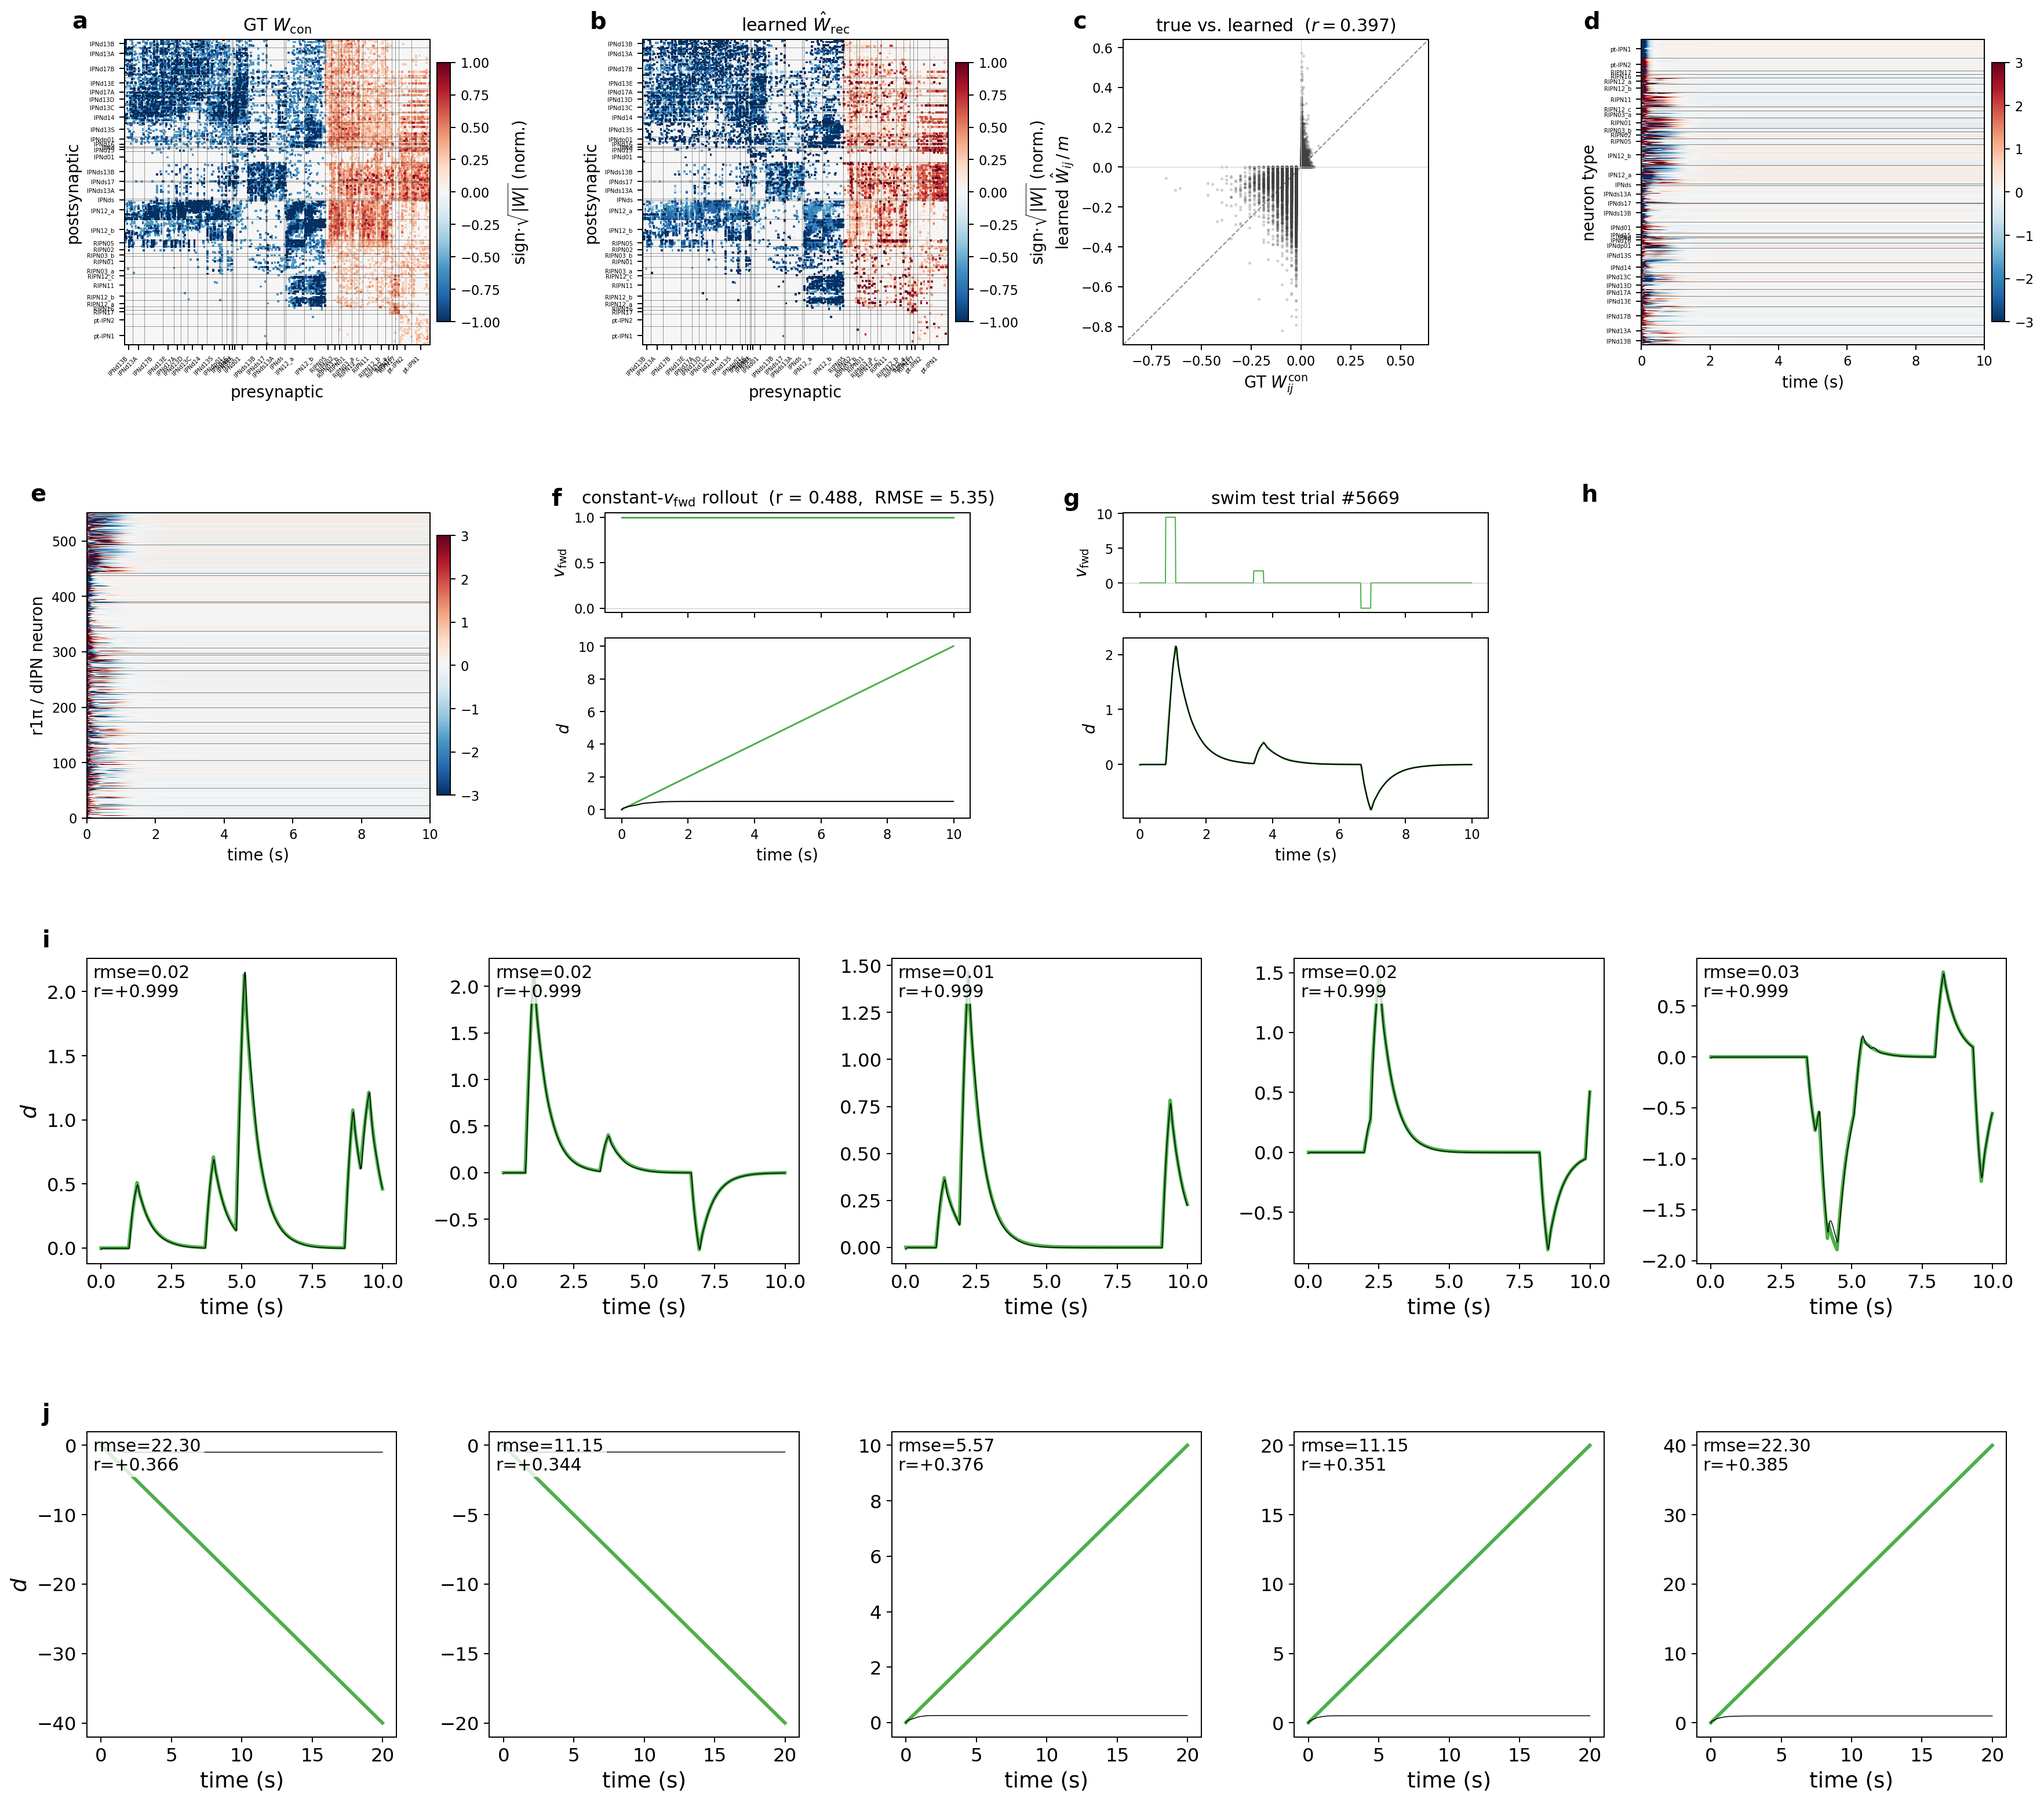
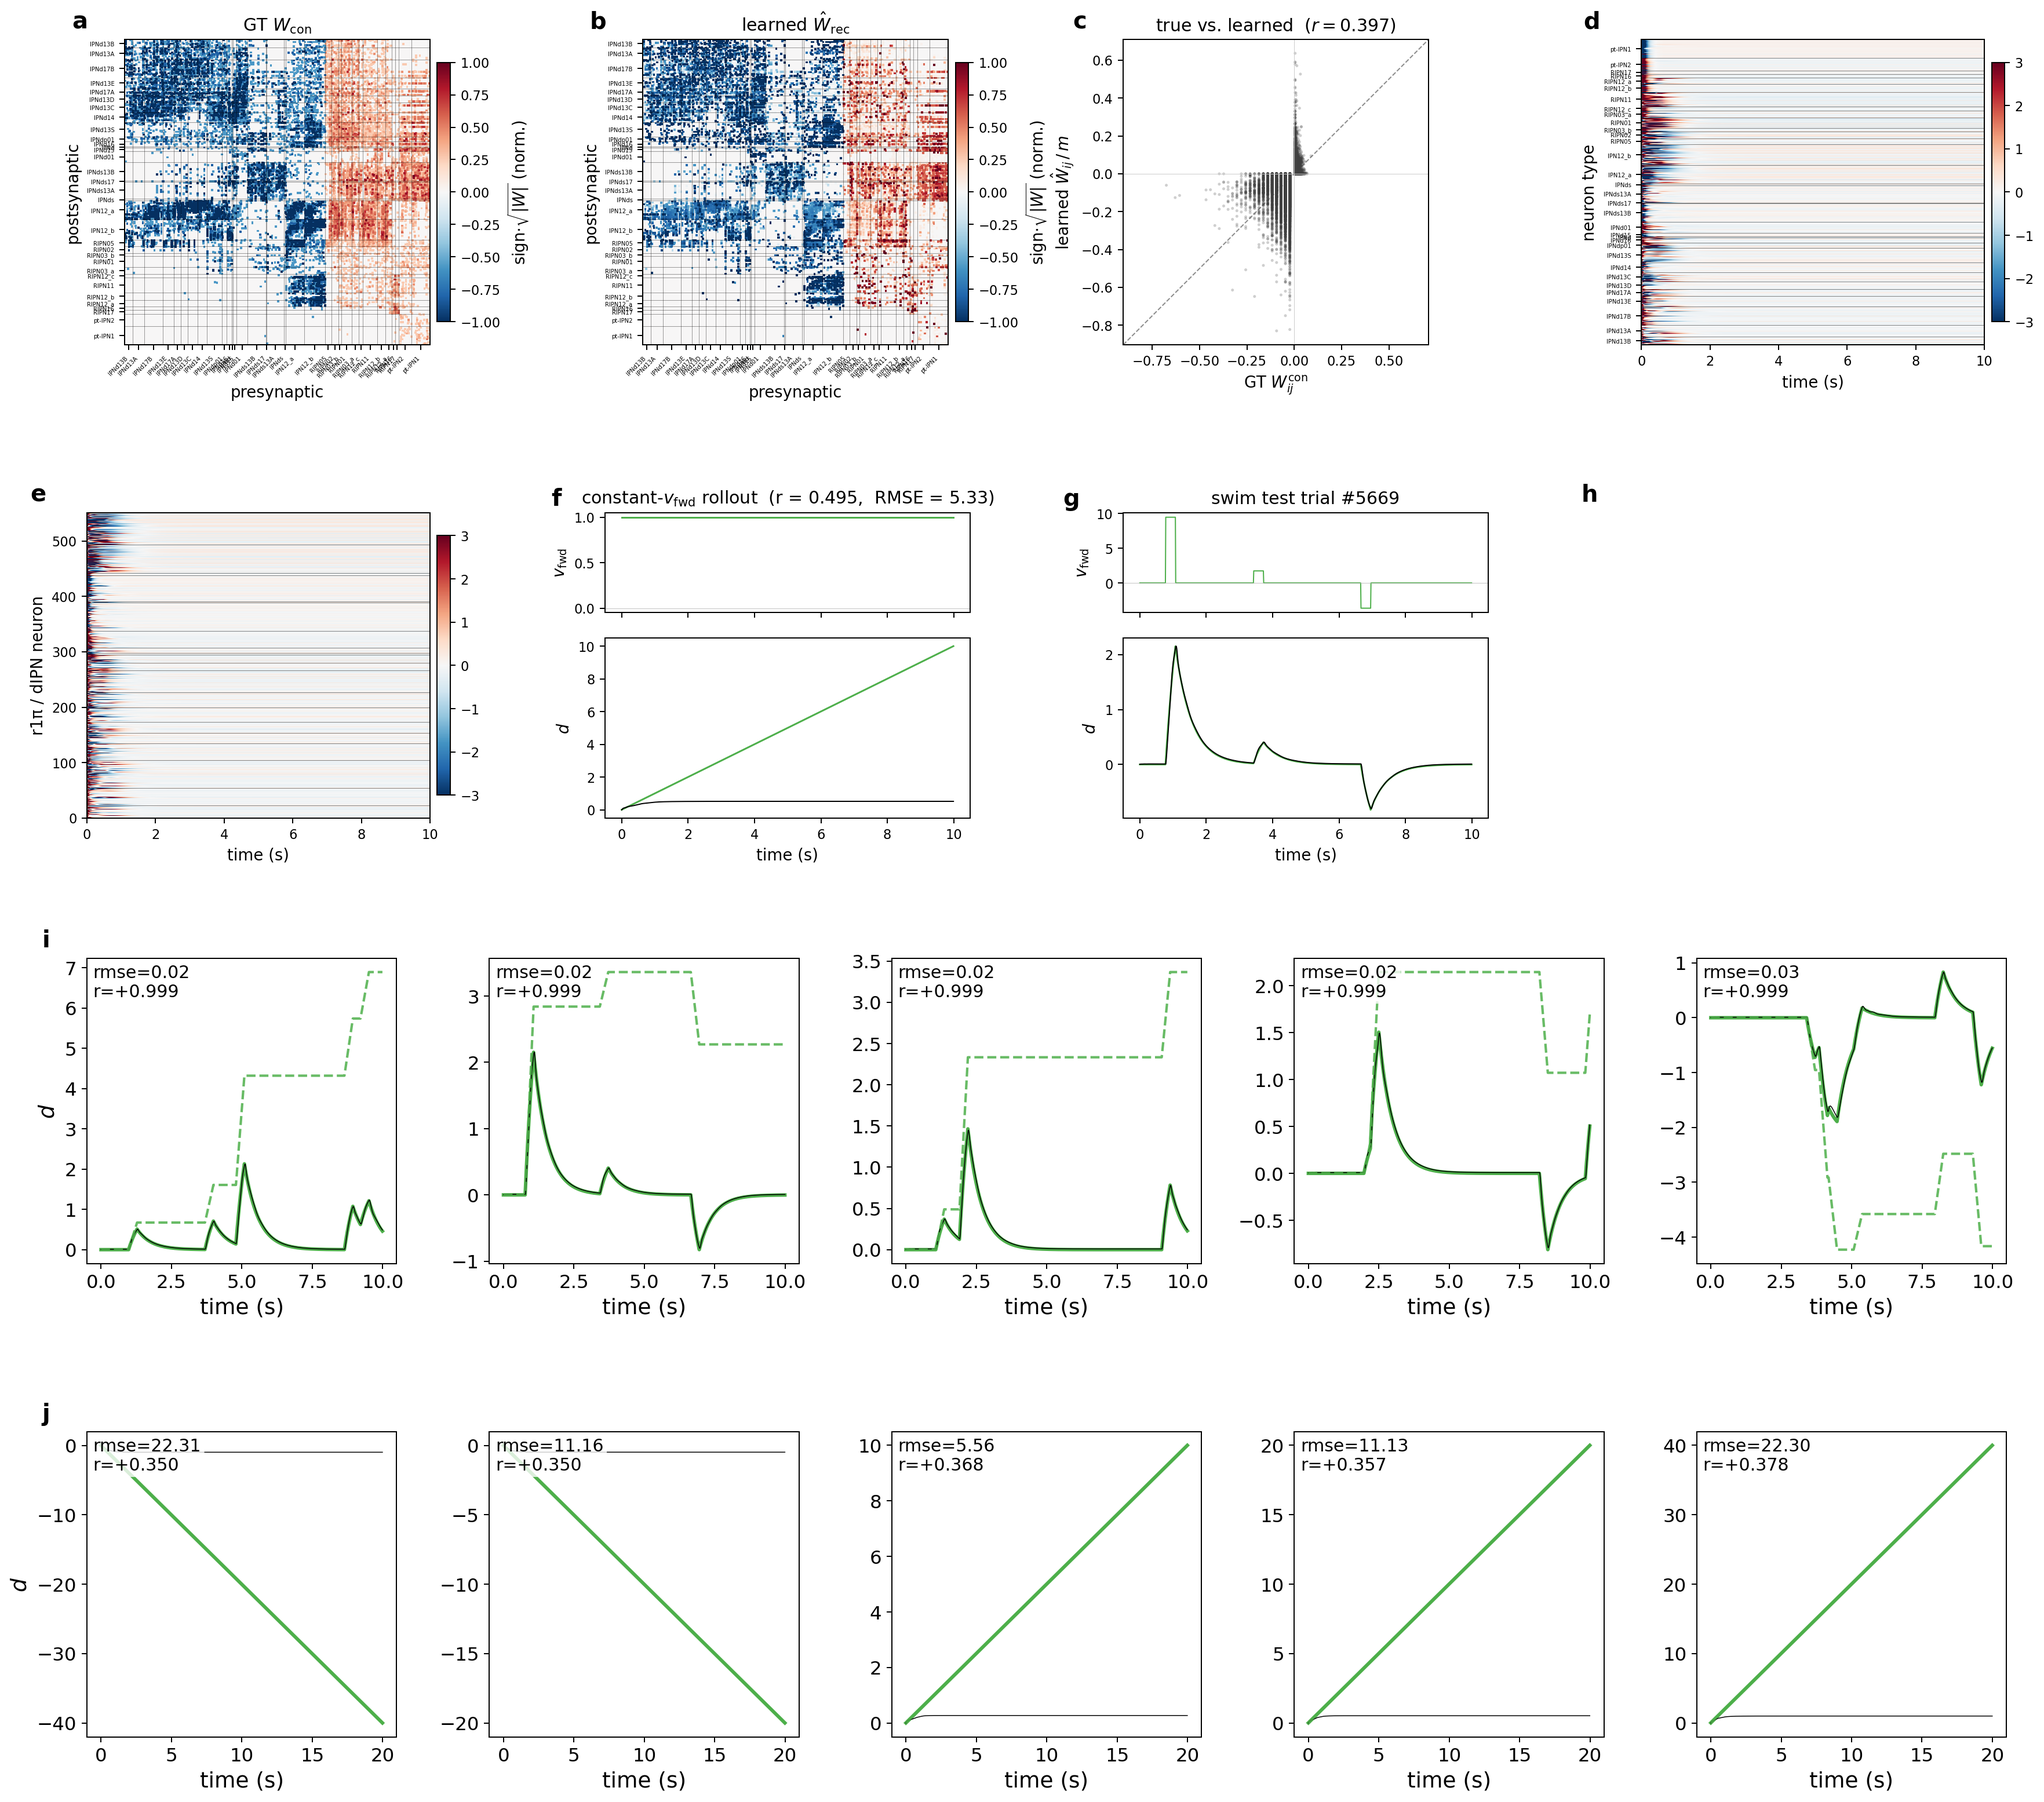
Leaky-variant evolution figures: overlay the cumulative-integrator GT (green dashed) for d and (x, y)
No data regeneration needed — the cumulative reference is a closed-form integral over the same v_fwd / omega input channels available in u:
  d_cum(t)   = Σ v_fwd · dt
  x_cum(t)   = Σ v_fwd cos θ(t) · dt
  y_cum(t)   = Σ v_fwd sin θ(t) · dt   where θ(t) = θ_0 + Σ ω · dt

* plot_cx.py: when xi_tau_s > 0 (leaky d) or position_tau_s > 0 (leaky xy), _plot_d_random / _plot_d_sweep / _plot_xy_random / _plot_xy_sweep now draw the cumulative reference on top of the (leaky) GT and decoded traces in the same green colour but DASHED at 70% line-weight. On the cumulative-target figures the flag is off so the figures stay unchanged.

The new overlay makes the bounded behaviour of the leaky target visible: in panel l of figure 6 (translation leaky) the dashed cumulative ramps up linearly while the leaky GT plateaus at τ·v_fwd ≈ 0.5·v_fwd, with the decoded trace following the leaky GT.

diff --git a/src/connectome_gnn/plot_cx.py b/src/connectome_gnn/plot_cx.py
@@ -2439,6 +2439,49 @@ def plot_cx_evolution(data: dict, out_path: str, *,
                     bbox=dict(facecolor="white", edgecolor="none",
                               alpha=0.8, boxstyle="round,pad=0.18"))
 
+        # ---- Cumulative-reference overlay (leaky variants only) ----------
+        # On leaky-target variants the GT trace is the leaky integrator;
+        # overlay the cumulative integral (cumsum of v_fwd * dt) in
+        # green dashed so the reader sees how much the leaky target
+        # discards vs.\ a pure path integrator on the same input.
+        _config = data.get("config")
+        _si = getattr(getattr(_config, "task", None),
+                       "swim_integration", None)
+        _xi_tau  = float(getattr(_si, "xi_tau_s", None) or 0.0)
+        _pos_tau = float(getattr(_si, "position_tau_s", None) or 0.0)
+        _show_cum_d  = (_xi_tau  > 0.0) and (kind in ("d", "both"))
+        _show_cum_xy = (_pos_tau > 0.0) and (kind == "xy")
+
+        def _cum_d_from_u(u_one):
+            """v_fwd channel: col 0 for translation-only (n_in=1),
+            col 1 for joint tasks (n_in=4)."""
+            n_in = u_one.shape[-1]
+            v = (u_one[:, 0] if n_in == 1
+                 else u_one[:, 1] if n_in >= 4
+                 else u_one[:, 0])
+            return np.cumsum(v) * dt_test
+
+        def _cum_xy_from_u(u_one):
+            """For n_in=4 superset [ω, v_fwd, cosθ₀·δ, sinθ₀·δ].
+            θ(t) = θ₀ + Σ ω·dt; x = Σ v_fwd·cosθ·dt, y = Σ v_fwd·sinθ·dt."""
+            n_in = u_one.shape[-1]
+            if n_in < 4:
+                return None, None
+            omega = u_one[:, 0]
+            v = u_one[:, 1]
+            theta0 = float(np.arctan2(u_one[0, 3], u_one[0, 2]))
+            theta_t = theta0 + np.cumsum(np.deg2rad(omega)) * dt_test
+            x = np.cumsum(v * np.cos(theta_t)) * dt_test
+            y = np.cumsum(v * np.sin(theta_t)) * dt_test
+            return x, y
+
+        def _cum_d_from_sweep(ro):
+            u = np.asarray(ro["u"])
+            return _cum_d_from_u(u)
+
+        def _cum_xy_from_sweep(ro):
+            return _cum_xy_from_u(np.asarray(ro["u"]))
+
         def _plot_wrapped_hd(ax, t, angles, color, lw):
             """Plot wrapped HD with line breaks at ±π discontinuities,
             so the wrap-around does not draw a vertical bar across the
@@ -2482,6 +2525,7 @@ def plot_cx_evolution(data: dict, out_path: str, *,
         def _plot_d_random(row, letter):
             y_true_show = random_trials.get("y_true")
             y_pred_show = random_trials.get("y_pred")
+            u_show = random_trials.get("u")
             if y_true_show is None or y_pred_show is None:
                 return
             d_col = (0 if y_true_show.shape[-1] == 1
@@ -2495,6 +2539,13 @@ def plot_cx_evolution(data: dict, out_path: str, *,
                 pr = y_pred_show[col, :, d_col]
                 ax.plot(t_r, tr, color=GT_COLOR, lw=GT_LW)
                 ax.plot(t_r, pr, color=PRED_COLOR, lw=PRED_LW)
+                # Cumulative reference (leaky variants only) — drawn in
+                # the same GT green but dashed so it doesn't compete
+                # with the leaky GT solid line.
+                if _show_cum_d and u_show is not None:
+                    d_cum = _cum_d_from_u(u_show[col])
+                    ax.plot(t_r, d_cum, color=GT_COLOR, lw=GT_LW * 0.7,
+                            ls="--", alpha=0.85)
                 ax.tick_params(labelsize=_T_TICK_FS)
                 ax.set_xlabel("time (s)", fontsize=_T_LABEL_FS)
                 if col == 0:
@@ -2507,6 +2558,7 @@ def plot_cx_evolution(data: dict, out_path: str, *,
         def _plot_xy_random(row, letter):
             y_true_show = random_trials.get("y_true")
             y_pred_show = random_trials.get("y_pred")
+            u_show = random_trials.get("u")
             if y_true_show is None or y_pred_show is None:
                 return
             for col in range(min(n_show, y_true_show.shape[0])):
@@ -2515,6 +2567,11 @@ def plot_cx_evolution(data: dict, out_path: str, *,
                 dx = y_pred_show[col, :, 2]; dy = y_pred_show[col, :, 3]
                 ax.plot(tx, ty, color=GT_COLOR, lw=GT_LW)
                 ax.plot(dx, dy, color=PRED_COLOR, lw=PRED_LW)
+                if _show_cum_xy and u_show is not None:
+                    cx, cy = _cum_xy_from_u(u_show[col])
+                    if cx is not None:
+                        ax.plot(cx, cy, color=GT_COLOR, lw=GT_LW * 0.7,
+                                ls="--", alpha=0.85)
                 ax.plot([0], [0], 'o', color='0.4', ms=4, zorder=5)
                 ax.set_aspect('equal', adjustable='datalim')
                 ax.tick_params(labelsize=_T_TICK_FS)
@@ -2563,6 +2620,10 @@ def plot_cx_evolution(data: dict, out_path: str, *,
                 t_s = np.arange(T_s) * dt_test
                 ax.plot(t_s, tr, color=GT_COLOR, lw=GT_LW)
                 ax.plot(t_s, pr, color=PRED_COLOR, lw=PRED_LW)
+                if _show_cum_d:
+                    d_cum = _cum_d_from_sweep(ro)
+                    ax.plot(t_s, d_cum, color=GT_COLOR, lw=GT_LW * 0.7,
+                            ls="--", alpha=0.85)
                 ax.tick_params(labelsize=_T_TICK_FS)
                 ax.set_xlabel("time (s)", fontsize=_T_LABEL_FS)
                 if col == 0:
@@ -2582,6 +2643,11 @@ def plot_cx_evolution(data: dict, out_path: str, *,
                 dx_ = np.asarray(ro["decoded_xy"])
                 ax.plot(tx[:, 0], tx[:, 1], color=GT_COLOR, lw=GT_LW)
                 ax.plot(dx_[:, 0], dx_[:, 1], color=PRED_COLOR, lw=PRED_LW)
+                if _show_cum_xy:
+                    cx, cy = _cum_xy_from_sweep(ro)
+                    if cx is not None:
+                        ax.plot(cx, cy, color=GT_COLOR, lw=GT_LW * 0.7,
+                                ls="--", alpha=0.85)
                 ax.plot([0], [0], 'o', color='0.4', ms=4, zorder=5)
                 ax.set_aspect('equal', adjustable='datalim')
                 ax.tick_params(labelsize=_T_TICK_FS)
